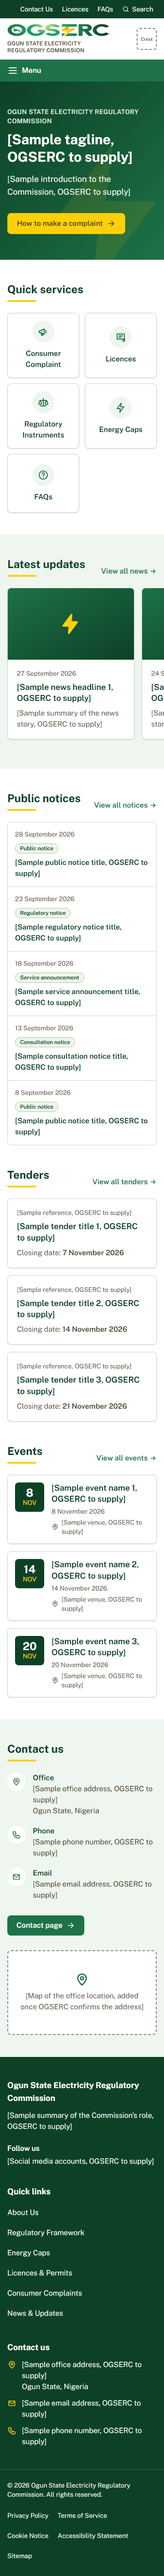
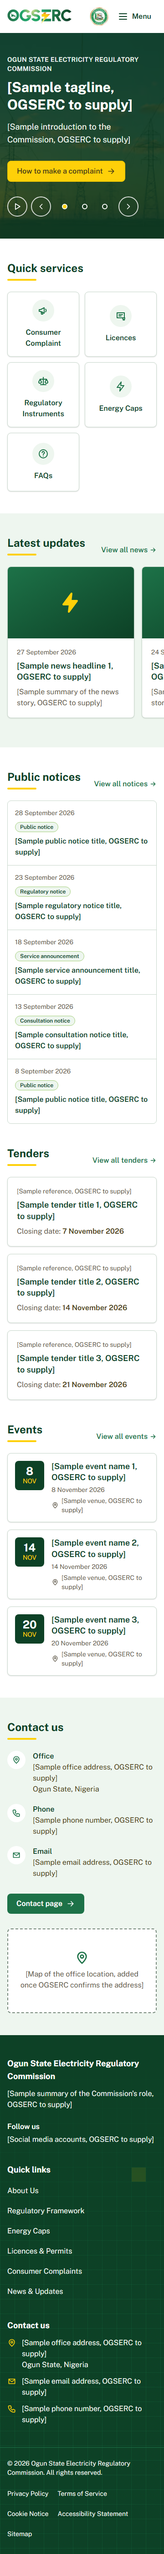
Docs for step 2b: SRS, CLAUDE.md, decisions, runbook, screenshots
- SRS: FR-WEB-02 now describes the hero carousel and the mobile drawer;
  new FR-WEB-08 to FR-WEB-12 (hero carousel, splash, motion, mobile
  header and drawer, footer pattern); open items 14 and 22.
- CLAUDE.md: a "Motion and interactivity" section; build step 12 now
  says to hash or externalise the inline splash script.
- DECISIONS D-033 to D-041: ink colour, image pipeline, hover menus,
  dialog drawer (including the no-animation fallback and how it was
  checked), carousel, splash (its inline script must be hashed or
  replaced when the strict CSP lands in step 12), motion, footer
  pattern, and before/after performance.
- RUNBOOK section 11: ink, crest and hero items ticked; asset credits,
  hero headlines and the splash CSP hash added.
- Design-review screenshots regenerated (with reduced motion), with
  new hero, footer, drawer and hover views; the README lists what to
  check and what OGSERC still needs to supply.

diff --git a/docs/DECISIONS.md b/docs/DECISIONS.md
@@ -382,3 +382,160 @@ At scaffold time:
 
 **Deferred to step 11: the font fallback.** next/font's metric-matched fallback for Public Sans is `src: local(Arial)`. Linux and Android do not have Arial, so on those devices text is drawn in the system sans-serif, which is much wider (about 14% on the menu), until Public Sans loads. Slow connections make that period longer, and if the font fails, it lasts the whole visit. The layout now copes. The remaining work is visual: less text reflow when the font swaps in, and a closer match on Linux and Android. Options include a fallback stack with metric-compatible fonts (for example Liberation Sans or Roboto) and `next/font`'s `fallback` and `adjustFontFallback` settings. Listed in CLAUDE.md, build step 11.
 
+## D-033 Ink colour `#483A16`, sampled from the full logo lockup (2026-10-13)
+
+**Decision:** `--color-ink` is `#483A16`, sampled from the commission name in the full OGSERC logo lockup. It replaces the placeholder `#4A3F2A` in D-024 (that table's `ink` row is superseded; the other rows stand). The value is approximate, because the source is a compressed image; if OGSERC supplies an exact brand value, use it and re-run the checks.
+
+**Contrast** (WCAG 2.1 formula, plus axe on the rendered pages in the Playwright suite):
+
+| Pair | Ratio | Result |
+|---|---|---|
+| ink on white | 11.1 | AA text |
+| ink on green-50 / green-100 | 10.1 / 9.1 | AA text |
+| ink on gold-400 / gold-500 (buttons, hover) | 7.5 / 6.1 | AA text |
+| ink on green-300 | 6.3 | AA text |
+| ink on green-500 | 3.2 | **still never text on green-500** |
+
+`ink-muted` (`#5C5546`, 7.4:1 on white) is unchanged.
+
+## D-034 Image pipeline: optimised masters, metadata stripped, originals not committed (2026-10-13)
+
+**Decision:**
+
+- **Script:** `scripts/optimise-images.mjs` (using `sharp`, already a dependency) prepares supplied images:
+  - hero photographs become 2048px-wide JPEG masters (quality 80, mozjpeg) in `src/assets/hero/`, which sits outside `public/`, so a master is never served at full size
+  - the crest's white margin is trimmed, and its unused alpha channel is dropped, into `public/brand/ogun-state-crest.png`
+- **Metadata:** `sharp` writes no metadata unless asked to keep it, so EXIF, GPS, XMP, IPTC and ICC are all dropped. Images are converted to sRGB first so colours do not shift. The script then re-reads every output and fails if any metadata remains. The supplied files had no EXIF or GPS, only an ICC profile, but the step is kept for future photos (phones embed GPS by default). Next's image optimiser re-encodes again on top of this.
+- **Serving:** `next/image` serves AVIF, then WebP (`images.formats`). `images.qualities` is `[60, 75]`: 60 for hero photos under a dark overlay, 75 for everything else. A phone downloads the first hero at 640px wide as a roughly 6 KB AVIF.
+- **Originals:** the full-size originals (1.8 to 2.0 MB, up to 5637px wide) were removed from `public/`, where anyone could download them, and are not committed again. They remain in git history (commits 5326dd3, 6402bd5, b1c7b78); history was not rewritten. `electricity1.jpg` was not chosen, and the Nigeria coat of arms is held back until OGSERC confirms permission (step 2b).
+- **Credits:** every image's source and licence is tracked in `docs/ASSET-CREDITS.md`. Entries marked TO CONFIRM must be resolved before launch.
+
+**Why:** keeps pages light on mobile data (SRS §12 Performance), keeps the repository small, and never publishes location data hidden in photographs.
+
+**Gotcha found:** Windows file names are case-insensitive, so writing `ogun-state-crest.png` overwrote `Ogun-State-Crest.png` on disk. Keep source and output folders separate when re-running the script.
+
+## D-035 Desktop dropdowns open on hover as well as click and keyboard (2026-10-13)
+
+**Decision:** This extends D-026. The disclosure pattern and keyboard behaviour stay the same, and dropdowns now also open on mouse hover:
+
+- **Hover only where possible:** a dropdown opens on `pointerenter` only when the pointer is a mouse and `matchMedia('(hover: hover)')` matches. Touch devices open it with a tap (a click). Hovering is never the only way: click, Enter and Space still toggle.
+- **Closing:** a dropdown opened by hover closes 300ms after the pointer leaves, and moving back in cancels the close. A click on it "pins" it open, so it stays until a second click, a click outside, Escape or focus leaving.
+- **WCAG 1.4.13 (content on hover):**
+  - *hoverable:* the panel sits inside the item with no gap
+  - *persistent:* there is no timeout while the pointer is over it
+  - *dismissible:* Escape closes it from anywhere on the page, even when focus is elsewhere, and hover does not reopen it until the pointer has left
+- **Tests:** `tests/e2e/menu-hover.spec.ts`.
+
+## D-036 Mobile header and menu drawer (native `<dialog>`) (2026-10-13)
+
+**Decision:** This supersedes the mobile parts of D-026 (the inline panel, and the utility bar at every width).
+
+- **Header below 1024px:** one row with the wordmark, the crest (40px) and a Menu button. The commission name and the utility bar show from 1024px only. Below that, the utility links (Contact Us, Licences, FAQs, Search) are in the drawer. The logo link's accessible name always includes the full name. The header fits at 320px.
+- **Drawer:** a native modal `<dialog>` (`showModal()`), sliding in from the left over a dimmed backdrop. The browser provides the top layer, makes the page behind inert, and handles Escape (the `cancel` event). The component adds the rest:
+  - Tab and Shift+Tab wrap inside the drawer
+  - a click on the backdrop closes it
+  - page scrolling is locked while it is open (`overflow: hidden` on `<html>`, set from JavaScript so it also works in browsers without `:has()`)
+  - focus returns to the Menu button on every close
+  - the drawer closes if the window grows past 1024px, so an invisible modal never leaves the page inert
+- **Animation without support:** the slide and fade use `@starting-style` and `transition-behavior: allow-discrete`. Without them, the drawer still opens and closes, instantly:
+  - the open state uses only long-supported CSS
+  - the off-screen transform applies only while the dialog is closed (`display: none`)
+  - a browser that does not know `allow-discrete` drops the whole `transition` declaration, so nothing is left half-animated
+
+  **How this was checked:** a Playwright test removes the drawer's transitions (`transition: none !important`), which is what such a browser computes. It then confirms that the drawer is fully on-screen as soon as it opens (x = 0, full width, focus on the close button) and fully gone as soon as Escape is pressed. This was a reading of the cascade plus that test. Older browsers were not run.
+- **Styles:** the drawer's CSS lives in `src/components/layout/drawer.css`, using theme tokens only.
+- **Tests:** `tests/e2e/mobile-drawer.spec.ts` (open, focus trap, Escape, backdrop, close button, scroll lock, links, no-animation fallback, header at 320 and 360px) and `navigation.spec.ts` (contents, axe with the drawer open).
+
+## D-037 Hero carousel (2026-10-13)
+
+**Decision:** The FR-WEB-02 hero becomes a carousel (FR-WEB-08), superseding D-029's "gradient, no photograph". It uses the three photographs OGSERC supplied, in the order agreed for step 2b (`electricity4`, `3`, `2`).
+
+- **Structure:** WAI-ARIA carousel pattern. The `<section>` has `aria-roledescription="carousel"` and the label "Highlights". Each slide is a group labelled "N of 3". Inactive slides are `inert`. A fixed h1 (the commission's name) sits above the slides, and each slide headline is an h2, so the page keeps one visible h1 whichever slide shows.
+- **Content:** slide 1 carries the tagline and introduction placeholders, and slides 2 and 3 have headline placeholders. Each slide has one primary action. The labels "View energy caps" and "Browse regulatory instruments" are proposals for OGSERC to confirm, like "How to make a complaint".
+- **Controls:** Pause/Play (always visible), previous, next and indicator buttons (`aria-current` on the active one). `aria-live` is "polite" only while paused.
+- **Autoplay:** every 7 seconds, and never by default for `prefers-reduced-motion`. It pauses while the mouse is over the carousel, and stops when keyboard focus enters it (except on the Pause/Play button) until Play is pressed. This follows the WAI-ARIA auto-rotating carousel example.
+- **Images:**
+  - only slide 1's photo is in the HTML, with `preload` (Next 16's replacement for `priority`)
+  - slides 2 and 3 mount after the `load` event, or on the first navigation
+  - plain `loading="lazy"` would not defer them, because stacked slides sit inside the viewport
+- **Alt text:** the photos have empty alt text (decorative). They are generic scenes, not Ogun-specific information, and the headline carries the meaning. If OGSERC supplies photos of specific sites or events, give them descriptive alt text.
+- **Overlay contrast:** checked against a pure-white pixel, the worst case whatever the photo:
+  - phones: green-900 at 80% over the whole image gives white text 6.4:1 and green-50 text about 5.9:1
+  - desktop: a left-to-right gradient, 85% to 80% up to 65% of the width (the text column ends before that at 1024px and wider), fading to 40% where there is no text
+- **Layout:** slides share one grid cell, so the hero's height never changes. Space for the controls is reserved before hydration, so there is no layout shift.
+- **Without JavaScript:** slide 1 shows in full and no controls are rendered.
+- **Tests:** `tests/e2e/hero-carousel.spec.ts` (controls, autoplay and pause via `page.clock`, focus stop, reduced motion, no JavaScript, one preloaded image in the HTML, served AVIF/WebP with no metadata and under 200 KB, axe).
+
+## D-038 Logo splash and its inline script (2026-10-13)
+
+**Decision:** A short logo splash shows on the first page of a browser session (FR-WEB-09).
+
+- **Inline script:** a small script in `<head>` (`SPLASH_SCRIPT` in `Splash.tsx`) runs before first paint. It adds `splash` to `<html>` only when reduced motion is not requested and `sessionStorage` has no flag. Every `sessionStorage` call is inside `try/catch`. If storage is blocked, the splash is skipped rather than shown on every page. The hero and the rest of the page do not use storage.
+- **Never blocking:**
+  - without the class, the overlay is `display: none`, so there is no splash without JavaScript
+  - the overlay has `pointer-events: none`
+  - the page's content is always in the HTML underneath, so search engines and screen readers get it
+  - the overlay is `aria-hidden`
+- **Ending:** the splash ends on the `load` event. The hard cap is a CSS animation that fades it from 600ms to 800ms. A first version used a 600ms `setTimeout`, but tests showed the timer firing over a second late while the main thread was busy. An opacity animation runs on the compositor, so the cap holds.
+- **Priority gotcha:** the splash shows the same logo image as the header, and React keeps only the first `<link rel="preload">` for a URL. The splash comes first in the page, so it must carry the same `fetchPriority="high"`, or the header logo loses its high priority. A test checks this.
+- **CSP (step 12):** the inline splash script **must be hashed** (a `sha256-…` source in `script-src`) **or moved to an external file** when the strict Content-Security-Policy is added in build step 12 (D-011). Any edit to the script changes its hash. `suppressHydrationWarning` on `<html>` is needed because the script changes its classes before React hydrates. The script uses `dangerouslySetInnerHTML` with a fixed string and no user input.
+- **Tests:** `tests/e2e/splash.spec.ts`.
+
+**Performance:** measured with Lighthouse (D-041). Running the branch with and without `--force-prefers-reduced-motion` (which turns off the splash, autoplay and reveal) showed no difference in FCP or LCP.
+
+## D-039 Motion: CSS and one IntersectionObserver, no animation library (2026-10-13)
+
+**Decision:**
+
+- **Scroll-reveal:** homepage sections carry `data-reveal`. `RevealOnScroll.tsx` (one small client component, rendered on the homepage) adds `reveal-pending` only to elements that start below the viewport, so nothing on screen flashes. It fades each one in once, using opacity and a 12px transform, so there is no layout shift (a test measures CLS under 0.01 while scrolling the whole page). Without JavaScript, before hydration, for reduced-motion users, or without IntersectionObserver, nothing is hidden.
+- **Hover:** cards, quick-service tiles, event cards and buttons lift slightly on hover (`motion-safe:` utilities only).
+- **Safety net:** a global `prefers-reduced-motion` rule in `globals.css` cuts every animation and transition to near zero.
+- **Where the CSS lives:** the reveal styles are in `globals.css`, not a component stylesheet. A CSS file imported by a page-level component is shipped as a separate render-blocking `<link>`. That cost an extra round trip and about 130ms of FCP on simulated mobile, which a test now guards against. Component CSS imported from the layout (drawer, splash, footer pattern) is merged into the main stylesheet, so it is unaffected.
+
+## D-040 Footer grid pattern (2026-10-13)
+
+**Decision:** The footer has a decorative grid-of-boxes background (FR-WEB-12), in `src/components/layout/footer-grid.css`.
+
+- **Drawing:** pure CSS. Two `repeating-linear-gradient`s draw 1px lines on a 32px grid in green-500 at 15% (`color-mix` with theme tokens, no hex values), and a mask fades the grid in from the top. Four cells are tinted gold at 18%: two on phones, four from 1024px.
+- **Static:** no images, no JavaScript, no animation.
+- **Decorative only:** `aria-hidden`, `pointer-events: none`, `z-index: -1` inside an `isolate`d footer with `overflow: hidden`, so it never covers text and cannot cause horizontal scrolling.
+- **Contrast**, against the lightest part of the pattern (a gold cell, gold-400 at 18% over green-900):
+
+  | Footer element | Ratio | Result |
+  |---|---|---|
+  | green-50 text | 7.1 | AA |
+  | white headings | 7.8 | AA |
+  | gold icons | 5.3 | non-text 3:1 |
+
+  Over the plain grid lines the ratios are 8.8 and 9.6. axe cannot measure text over a background image: it reports such text as "incomplete" rather than passing, so these ratios are calculated (the same formula as D-024). The Playwright tests run axe on the footer, check that every footer link is the element hit at its centre, and check for no overflow at 360 and 1280px.
+
+## D-041 Performance and JavaScript, before and after step 2b (2026-10-14)
+
+**Method:**
+
+- **Tool:** Lighthouse 13.5.0 via `npx` (not added to `package.json`), with its default mobile preset (simulated slow 4G, 4x CPU slowdown) and Playwright's Chromium.
+- **Servers:** production builds of `main` and of this branch, served side by side on the same machine.
+- **Runs:** 6 rounds, alternating main and branch, medians reported.
+- **JavaScript:** summed from the homepage's script resources in a 360px Chromium page.
+
+**JavaScript shipped by the homepage:**
+
+| | Scripts | Transferred (compressed) | Decoded |
+|---|---|---|---|
+| main | 7 | 145.2 KB | 474.6 KB |
+| step 2b | 9 | 149.2 KB | 483.2 KB |
+
+The increase is about 4 KB compressed, for the carousel, the drawer, hover menus and the reveal observer.
+
+**Lighthouse mobile, medians of 6 alternating runs:**
+
+| | Score | FCP | LCP | TBT | CLS | Speed Index | Page weight |
+|---|---|---|---|---|---|---|---|
+| main | 82 | 0.93 s | 3.19 s | 447 ms | 0 | 2.51 s | 235 KB |
+| step 2b | 83 | 0.93 s | 3.26 s | 427 ms | 0 | 2.29 s | 286 KB |
+
+- **Page weight:** the extra 51 KB is mostly the hero photos, which load after the page's `load` event.
+- **First measurement:** step 2b initially measured 3 points lower (FCP +130ms). Two causes were found and fixed: the page-level reveal stylesheet (D-039), and the splash dropping the header logo's preload priority (D-038).
+- **Noise:** this machine's run-to-run spread is about ±3 points and ±150ms TBT, so differences of that size are noise.
+
+**Revisit when:** the font fallback work in step 11 (D-032) and the CSP in step 12. The homepage LCP (about 3.2s on simulated slow 4G) was already above the 2.5s "good" threshold before this step. It is mostly script and font time, and is worth a dedicated look in step 11.

diff --git a/docs/SRS.md b/docs/SRS.md
@@ -167,7 +167,7 @@ One account gives access to all of: licence application, consumer complaints, pe
 | Resources | Resources | 1 |
 | User Profile / portal | User Profile | 2 |
 | Utility bar: Contact Us, Licences, FAQs, Search | Same | 1 |
-| Home: hero banner, Latest Updates carousel | Homepage (Section 6.1) | 1 |
+| Home: hero banner (OGSERC: hero carousel), Latest Updates carousel | Homepage (Section 6.1) | 1 |
 | Footer with quick links, contact, social links, policy pages | Same | 1 |
 
 The developer shall complete a one-time audit of the live LASERC site against this table and record any features found that are not listed.
@@ -184,12 +184,17 @@ The developer shall complete a one-time audit of the live LASERC site against th
 
 ### 6.1 Public website (FR-WEB)
 - **FR-WEB-01** The site shall provide the navigation and pages described in Section 4.
-- **FR-WEB-02** The homepage shall contain, in order: header and main navigation; hero banner with a tagline and one primary action; quick services (Consumer Complaint, Licences, Regulatory Instruments, Energy Caps, FAQs); Latest Updates carousel of news cards; public notices; tenders; events; contact (office, phone, email, map); footer. The header shows the utility bar and the seven-item main menu from Section 4.
+- **FR-WEB-02** The homepage shall contain, in order: header and main navigation; hero carousel (FR-WEB-08), with the tagline and introduction on the first slide and one primary action on each slide; quick services (Consumer Complaint, Licences, Regulatory Instruments, Energy Caps, FAQs); Latest Updates carousel of news cards; public notices; tenders; events; contact (office, phone, email, map); footer. On desktop the header shows the utility bar and the seven-item main menu from Section 4; on smaller screens both are in the menu drawer (FR-WEB-11).
 - **FR-WEB-03** Every page shall have breadcrumbs, a consistent footer, and a link to search.
 - **FR-WEB-04** Public notices shall be visible from the homepage and sortable by date.
 - **FR-WEB-05** Pages shall be fully responsive, with mobile as the primary design target.
 - **FR-WEB-06** The footer shall link to a Privacy Policy, Terms of Service, Cookie Notice, Accessibility Statement, and Sitemap. OGSERC (with its legal advisers) supplies the text; the site shall show a cookie notice if any non-essential cookies are used.
 - **FR-WEB-07** Privacy-friendly site analytics (for example Plausible or Umami, no personal profiling) shall be active from launch to show which pages are used.
+- **FR-WEB-08 Hero carousel.** The homepage hero shall be a carousel of slides built from photographs OGSERC has the right to publish (listed in `docs/ASSET-CREDITS.md`), each slide with a headline and one primary action. It shall have previous and next controls, slide indicators and a visible pause/play control; it shall not autoplay for users who prefer reduced motion, and shall stop rotating when keyboard focus enters it. Text over photographs shall meet WCAG AA contrast against the lightest possible pixel (using an overlay). Only the first photograph shall load with the page; the others load afterwards. Without JavaScript the first slide shall show in full.
+- **FR-WEB-09 Splash screen.** A short logo splash may show once per browser session. It shall never block content, the pointer or search engines (the page content is in the HTML), shall end when the page has loaded and in any case within about 800ms, shall not show for reduced-motion users, when JavaScript is off, or when browser storage is unavailable, and shall not lower the mobile performance score.
+- **FR-WEB-10 Motion.** Homepage sections may fade in subtly as they scroll into view, and cards and buttons may respond gently to hover, using CSS and a small IntersectionObserver (no animation library). All content shall be fully visible without JavaScript, motion shall cause no layout shift, and all motion shall respect `prefers-reduced-motion`.
+- **FR-WEB-11 Mobile header and menu drawer.** Below the desktop breakpoint (1024px), the header shall show only the logo, the Ogun State crest and a menu button, without horizontal overflow at 320px. The menu button shall open a drawer from the left, over a dimmed backdrop, containing the main menu (with expandable sections) and the utility links. The drawer shall trap focus, close on Escape, on a backdrop click and with a close button, lock page scrolling while open, return focus to the menu button when closed, use correct dialog semantics, and work (without animation) in browsers that do not support its transition features. On desktop, menu dropdowns shall open on click, Enter and Space, and also on hover on devices that support hover, following WCAG 1.4.13.
+- **FR-WEB-12 Footer pattern.** The footer may carry a subtle decorative background pattern (thin grid lines in brand-green tints with occasional gold accents), built in CSS with no images or JavaScript. It shall be hidden from assistive technology, shall never sit above footer text or links, shall cause no layout shift or horizontal overflow, and footer text shall keep WCAG AA contrast against the lightest part of the pattern.
 
 ### 6.2 Information centre: documents (FR-DOC)
 - **FR-DOC-01** Staff shall be able to publish documents in these categories (matching Regulatory Instruments): rules & regulations, energy caps, guidelines, forms, consultation, licences, orders & directives, codes, manuals, market documents, standards.
@@ -475,7 +480,7 @@ Phases 2 and 3 will have acceptance criteria written before they begin.
 11. Data retention and privacy policy approval.
 12. Who maintains the site after launch.
 13. Approved monthly hosting budget (Section 13.1) and any government hosting requirements.
-14. A vector (SVG) version of the OGSERC logo and a high-resolution Ogun State crest (a transparent PNG of the logo has been supplied), and OGSERC's confirmation of the brand colour values in Section 2.4 (the design must not copy the benchmark's look).
+14. Vector (SVG) versions of the OGSERC logo and the Ogun State crest (a transparent PNG of the logo and a 540×576 PNG of the crest have been supplied), and OGSERC's confirmation of the brand colour values in Section 2.4, including the ink colour `#483A16` sampled from the full logo lockup (the design must not copy the benchmark's look).
 15. Whistleblowing policy: anonymity rules, who receives reports, and how they are handled.
 16. Rules for publishing tenders (what is published, retention, who approves).
 17. Text for the Privacy Policy, Terms of Service, Cookie Notice, and Accessibility Statement, supplied by OGSERC's legal advisers.
@@ -483,6 +488,7 @@ Phases 2 and 3 will have acceptance criteria written before they begin.
 19. Written approval of the SRS, sitemap, and brand (Section 2.5).
 20. Whether PDF contents should be searchable (FR-SRCH-04) and whether scanned PDFs should be OCR-processed.
 21. Who holds the roles of security contact and incident decision-maker (NFR-SEC-17).
+22. The source, licence and permission for every image on the site (hero photographs, Ogun State crest, logo), as listed in `docs/ASSET-CREDITS.md`; permission to show the Nigeria coat of arms if it is wanted; and the headline and action wording for each hero slide.
 
 ---
 

diff --git a/docs/design-review/README.md b/docs/design-review/README.md
@@ -1,33 +1,38 @@
-# Design review: build step 2
+# Design review: build step 2 (updated in step 2b)
 
 These screenshots are for OGSERC's review of the design system and homepage (SRS 2.5). No other pages are built until this design is approved. Every piece of text in square brackets, for example "[Sample tagline, OGSERC to supply]", is a placeholder for OGSERC to replace.
 
-Regenerate them with the site running: `node scripts/design-review-screenshots.mjs`.
+Regenerate them with the site running: `node scripts/design-review-screenshots.mjs`. They are taken with reduced motion, so they show the settled design: no splash, no slide changes, no fade-ins.
 
 | File | What it shows |
 |---|---|
 | `home-360.png`, `home-768.png`, `home-1280.png` | Homepage on a phone, a tablet and a desktop (full page) |
-| `menu-open-360.png`, `menu-open-768.png` | Mobile menu open, with "Regulatory Instruments" expanded |
-| `menu-open-1280.png` | Desktop menu with the "Regulatory Instruments" dropdown open |
+| `hero-360.png`, `hero-768.png`, `hero-1280.png` | The hero carousel: first slide, controls (pause/play, previous, indicators, next) |
+| `menu-open-360.png`, `menu-open-768.png` | The menu drawer on a phone and a tablet, with "Regulatory Instruments" expanded |
+| `menu-open-1280.png` | Desktop menu with the "Regulatory Instruments" dropdown opened by hovering |
+| `footer-360.png`, `footer-768.png`, `footer-1280.png` | The footer with its grid background pattern |
 | `design-system-*.png` | Colours, type, buttons, badges, cards and form controls |
 | `being-prepared-*.png` | The page that every not-yet-built menu link opens |
 | `header-1024.png` | Header at 1024px, the narrowest width with the desktop menu |
 | `header-1024-wide-fallback.png` | The same header when Public Sans has not loaded and the device's fallback font is wide (Linux, Android): long labels wrap onto two lines instead of overflowing |
 
-## Please check
+## Please check (step 2b)
 
-1. **Colours and overall look.** Do the greens and gold feel right for OGSERC? Is it clear, credible and government-grade?
-2. **Header.** The OGSERC logo with the commission's name, the utility bar (Contact Us, Licences, FAQs, Search) and the seven-item menu from SRS Section 4. Are the menu labels and the dropdown items correct?
-3. **Homepage order** (FR-WEB-02): hero, quick services, latest updates, public notices, tenders, events, contact, footer.
-4. **Hero.** Please supply the tagline and short introduction, and confirm the button wording ("How to make a complaint").
-5. **Typeface.** Public Sans. Is it easy to read on a phone?
-6. **Footer.** Quick links, contact details, social media, and the legal links (Privacy, Terms, Cookies, Accessibility, Sitemap).
+1. **Header.** The Ogun State crest now sits on the right. On phones the header shows only the OGSERC logo, the crest and a Menu button; the commission's name and the top links (Contact Us, Licences, FAQs, Search) appear from desktop width, and are inside the menu on phones.
+2. **Menu drawer** (phones and tablets). Slides in from the left over a dimmed page. Do the sections and links read clearly?
+3. **Desktop menu.** Dropdowns now open when you point at them, as well as on click or keyboard.
+4. **Hero carousel.** Three photographs, each slide with a headline and one button. It changes slide every 7 seconds unless paused (and never moves on its own for visitors who have asked their device for reduced motion). Are the photographs and the green overlay right for OGSERC?
+5. **Opening splash.** On a visitor's first page, the OGSERC logo shows for under a second while the page loads. Not shown in the screenshots; try it in a fresh browser window.
+6. **Gentle motion.** Homepage sections fade in as you scroll, and cards lift slightly under the pointer.
+7. **Footer.** A faint grid pattern with a few gold squares. Is it subtle enough?
+8. **Text colour.** Body text now uses the olive-brown sampled from the full logo lockup (`#483A16`).
 
 ## Needed from OGSERC
 
-- **The full logo lockup** (logo with the commission's name), so the dark olive-brown text colour can be sampled from it. A temporary colour is used for now.
-- **The Ogun State crest** (high-resolution, ideally SVG or transparent PNG), for the dashed "Crest" box in the header.
-- **A hero photograph** of electricity infrastructure in Ogun State, or approval of the green background as final.
+- **Photograph sources and licences**, and permission for the crest: see `docs/ASSET-CREDITS.md` for the exact questions.
+- **Headlines for hero slides 2 and 3**, and confirmation of the button wording ("How to make a complaint", "View energy caps", "Browse regulatory instruments").
+- **Nigeria coat of arms:** confirm whether it should appear in the header and that OGSERC may display it (it is held back for now).
 - **The tagline and introduction** for the hero.
 - **Office address, phone number and email address**, and confirmation that a map should be shown.
 - **Social media accounts** to link in the footer.
+- **Vector (SVG) logo and crest**, if available, for the sharpest result on all screens.

diff --git a/CLAUDE.md b/CLAUDE.md
@@ -65,6 +65,18 @@ Before saying a task is done, run lint, typecheck, and the relevant tests, and f
 - Write small, focused functions. Add comments only where intent is not obvious.
 - Before writing Next.js code, consult the version-matched docs in node_modules/next/dist/docs/ (see AGENTS.md). If AGENTS.md ever conflicts with this file or docs/SRS.md, CLAUDE.md and the SRS take precedence.
 
+## Motion and interactivity
+
+Rules for anything that moves or responds to the pointer (SRS FR-WEB-08 to FR-WEB-12; docs/DECISIONS.md D-035 to D-040).
+
+- Hover is never the only way to do anything. Menus that open on hover also open on click, Enter and Space, close on Escape and after a short delay once the pointer leaves, and follow WCAG 1.4.13 (dismissible, hoverable, persistent). Use hover only where `(hover: hover)` matches; touch devices tap.
+- Dialogs and drawers trap focus, close on Escape, on a backdrop click and with a close button, lock page scrolling while open, return focus to the control that opened them, and use correct ARIA. Animation is progressive: without `@starting-style` or `allow-discrete` they must still open and close, just instantly.
+- Carousels have previous and next controls, indicators and a visible pause/play button; they never autoplay for `prefers-reduced-motion`, stop when keyboard focus enters, and keep text over images at AA contrast (use an overlay, checked against a pure-white pixel). Only the first image loads eagerly; the others load after the page.
+- The splash shows at most once per session, never blocks content, the pointer or search engines, ends on page load with a CSS hard cap of about 800ms, and is skipped for reduced-motion users, without JavaScript, and when storage is unavailable (wrap every storage call in try/catch).
+- Motion uses CSS and, at most, a small IntersectionObserver. No animation library. Content is fully visible without JavaScript, motion causes no layout shift (opacity and transform only), and everything respects `prefers-reduced-motion`.
+- Decorative backgrounds (such as the footer pattern) are pure CSS or tiny inline SVG, `aria-hidden`, never above text or links, cause no overflow, and keep text at AA contrast against their lightest part.
+- Keep client JavaScript small: measure the homepage's JavaScript and mobile performance before and after any interactive change (D-041). Put CSS for page-level components in `globals.css`, not a component stylesheet, because a page-level CSS import becomes a separate render-blocking file.
+
 ## Security and data rules
 
 - Never commit secrets. Use environment variables; keep `.env.example` current with placeholder values only.
@@ -119,5 +131,5 @@ The site must be movable to any host that runs Node.js or Docker (a VPS, Railway
 9. Media Center and Resources: news, tenders, events, galleries, reports, publications
 10. Site-wide search including PDF text
 11. SEO (sitemap, metadata), analytics, performance and accessibility pass; fix the font fallback: next/font's Public Sans fallback is `local(Arial)`, which Linux and Android lack, so text renders in a much wider system font while Public Sans loads (see docs/DECISIONS.md D-032)
-12. Playwright tests for critical flows, security checklist review, set up a strict Content Security Policy (see docs/DECISIONS.md D-011), README, RUNBOOK
+12. Playwright tests for critical flows, security checklist review, set up a strict Content Security Policy (see docs/DECISIONS.md D-011; hash or externalise the inline splash script, D-038), README, RUNBOOK
 13. Staging deploy and launch checklist (backup restore test, monitoring, spend limits, email SPF/DKIM/DMARC, placeholder content removed)

diff --git a/docs/RUNBOOK.md b/docs/RUNBOOK.md
@@ -235,9 +235,12 @@ Build step 2 added temporary placeholders so OGSERC could review the design befo
 
 - [ ] `src/lib/placeholder-content.ts` deleted; all homepage content comes from the CMS (replaced in step 4, D-028).
 - [ ] No text containing "OGSERC to supply" on any page (search the site and the database).
-- [ ] The `ink` colour in `src/app/(frontend)/globals.css` replaced with the olive-brown sampled from OGSERC's full logo lockup, and the contrast checks in D-024 re-run (`pnpm test:e2e` includes axe).
-- [ ] `src/components/layout/CrestPlaceholder.tsx` replaced with the Ogun State crest image (D-029).
-- [ ] Hero photograph supplied, or the gradient approved by OGSERC as final.
+- [x] The `ink` colour set to `#483A16`, sampled from OGSERC's full logo lockup (D-033). Re-run the checks if OGSERC supplies an exact brand value.
+- [x] Crest placeholder replaced with the Ogun State crest image (step 2b).
+- [x] Hero photographs supplied (step 2b, D-037).
+- [ ] `docs/ASSET-CREDITS.md` has no "TO CONFIRM" left: every image's source, licence and permission recorded (D-034).
+- [ ] Hero slide headlines and action wording supplied by OGSERC (`[Sample headline …]` gone).
+- [ ] The inline splash script is hashed in, or moved out of, the Content-Security-Policy (step 12, D-038).
 - [ ] Contact section map added (or removed) once the office address is confirmed.
 - [ ] `src/app/(frontend)/design-system/` (the review page) deleted (D-031).
 - [ ] No menu entry in `src/lib/navigation.ts` still has `ready: false`, and `/being-prepared` is removed or unused (D-027).
